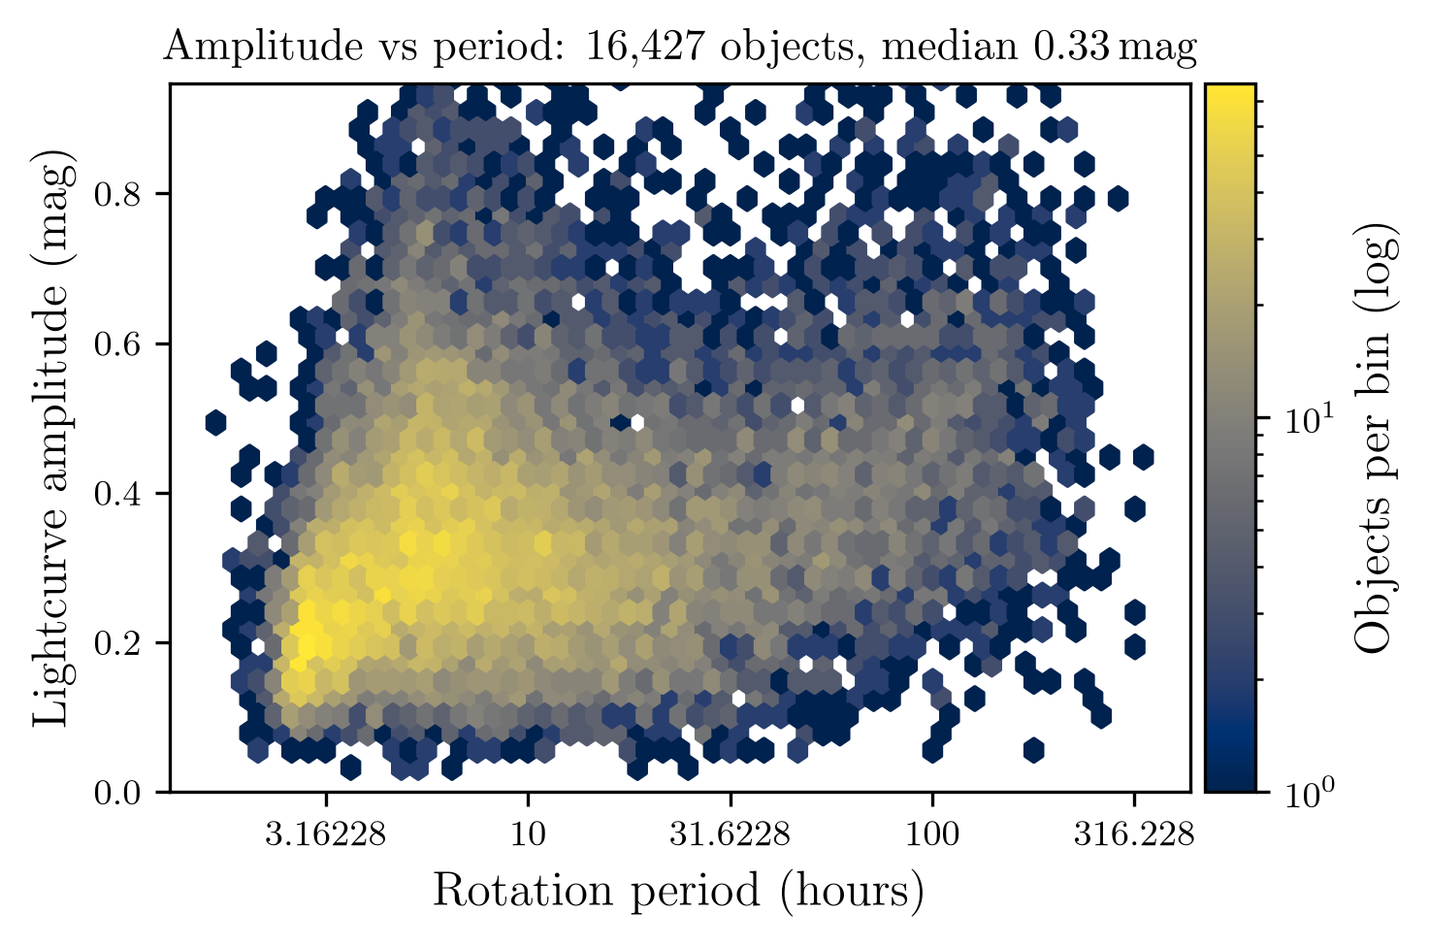
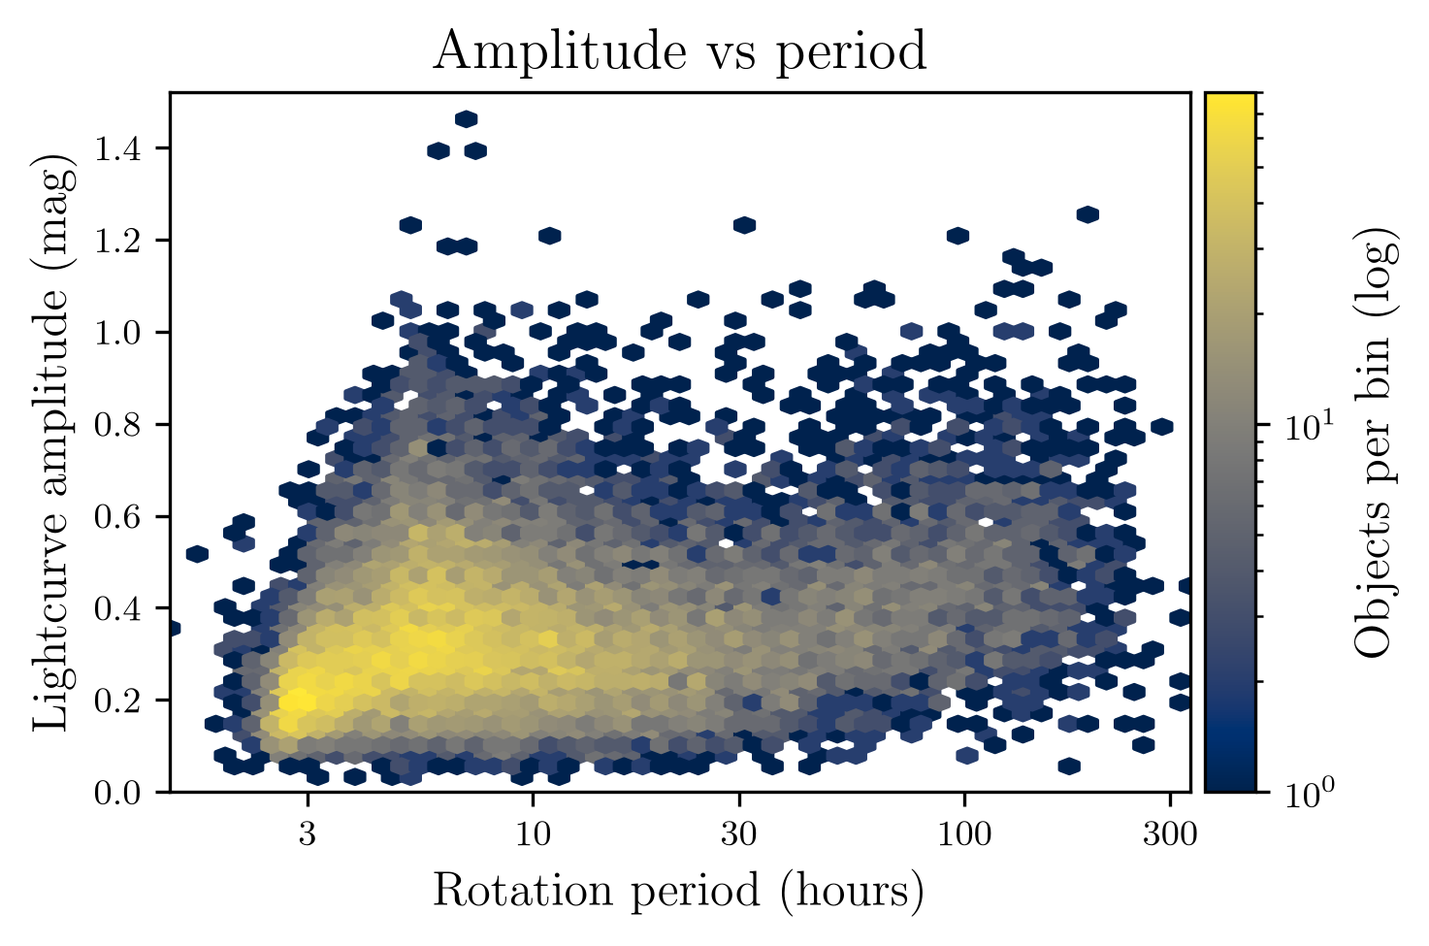
Editable landing copy, data and credit sections, figure fixes
Landing-page prose moves into shape/landing_text.py: plain strings, no f-string,
so braces need no escaping and a typo cannot break the build the way it could
when the copy sat inline with the CSS and JS. Numbers stay live through
{placeholders} filled from the catalogue at build time, so the text cannot go
stale. Verified the rendered page is byte-identical across the extraction. Bare
ampersands are escaped automatically, since hand-written copy naturally contains
them and they are invalid HTML.

Two new sections above the caveat. "Data and photometry" credits TESSELLATE
(Roxburgh et al. 2025, AJ 170, 186) and TESSreduce (Ridden-Harper et al. 2021,
ascl:2112.016). "Shape models and credit" credits convex inversion to Kaasalainen
& Torppa and Kaasalainen, Torppa & Muinonen (2001, Icarus 153, 24 and 37) and the
code and Minkowski reconstruction to DAMIT (Durech, Sidorin & Kaasalainen 2010,
A&A 513, A46), and separates what is ours from what is not.

Every citation was looked up rather than recalled, and each bibcode resolved
through the ADS link gateway to a live DOI. A plain request to ADS returns 405
for any bibcode, valid or not, so a direct fetch proves nothing.

Figures: titles trimmed at the colon and enlarged, the amplitude panel now shows
its full range instead of clipping the most elongated bodies at the 99.5th
percentile, and log axes carry round tick values rather than 3.16228.

diff --git a/index.html b/index.html
@@ -17,6 +17,10 @@
   h2{font-size:16px;margin:36px 0 10px}
   p.note{color:var(--text-dim);font-size:13px;line-height:1.6;margin:0 0 14px;max-width:72ch}
   .figs{display:grid;grid-template-columns:repeat(auto-fit,minmax(330px,1fr));gap:16px}
+  /* citation links inside body prose */
+  .note a{color:var(--accent);text-decoration:none;border-bottom:1px solid #a78bfa55}
+  .note a:hover{border-bottom-color:var(--accent)}
+  .note a:focus-visible{outline:2px solid var(--accent);outline-offset:2px}
   .figs figure{margin:0;background:var(--panel);border:1px solid var(--panel-border);
     border-radius:9px;padding:10px}
   .figs img{width:100%;height:auto;border-radius:5px;display:block;background:#fff}
@@ -88,26 +92,15 @@
 </style>
 <main>
   <p class="eyebrow">TESS sectors 27&ndash;55 &middot; TESSELLATE</p>
-  <h1>Asteroid rotation catalog</h1>
-  <p class="lede">Rotation periods, phase-folded lightcurves and convex shape models for
-     asteroids observed by TESS. Because TESS watches the same field continuously for about a
-     month, these lightcurves run unbroken for weeks &mdash; reaching slow rotators that a single
-     night cannot close, and pinning periods across hundreds of consecutive rotations.</p>
+  <h1>Asteroid rotation &amp; shape catalog</h1>
+  <p class="lede">Rotation periods, phase-folded lightcurves and convex shape models for asteroids observed by TESS. Since TESS observes the same field continuously at high cadence for at least a month, these lightcurves can run unbroken for weeks &mdash; allowing us to recover precise rotation periods for both fast and slow rotators that are a challenge to recover from the ground.</p>
 
-  <div class="kpi">
-    <div><div class="v">16,427</div><div class="l">rotation periods</div></div>
-    <div><div class="v">12,068</div><div class="l">with no previously published period</div></div>
-    <div><div class="v">3,255</div><div class="l">longer than 24 hours</div></div>
-    <div><div class="v">46 days</div><div class="l">median observing baseline</div></div>
-    <div><div class="v">1,384</div><div class="l">median measurements each</div></div>
-  </div>
+  <div class="kpi"><div><div class="v">16,427</div><div class="l">rotation periods</div></div><div><div class="v">12,068</div><div class="l">with no previously published period</div></div><div><div class="v">3,255</div><div class="l">longer than 24 hours</div></div><div><div class="v">46 days</div><div class="l">median observing baseline</div></div><div><div class="v">1,384</div><div class="l">median measurements each</div></div></div>
 
   <h2>Search the catalog</h2>
-  <p class="note">Type a name or number for a quick look, or open one at random. Every object
-     has a page: 14,768 carry a convex shape model, and 1,659 have a period
-     and folded lightcurve but no model, each stating why.</p>
+  <p class="note">Type a name or number for a quick look, or open one at random. Every object has a page: 14,768 carry a convex shape model, and 1,659 have a period and folded lightcurve but no model, each stating why.</p>
   <div class="searchrow">
-    <input id="q" type="search" placeholder="e.g. Eurydike, 3550, Link&hellip;" autocomplete="off">
+    <input id="q" type="search" placeholder="e.g. Eurydike, 3550, Lanzia&hellip;" autocomplete="off">
     <button id="rand" type="button" title="Open a random asteroid from the catalog">Random asteroid</button>
   </div>
   <div id="hits"></div>
@@ -120,39 +113,32 @@
     <th data-k="m" tabindex="0" role="button" title="+1 symmetric (two identical maxima), 0 equal odd and even power, -1 monomodal (one maximum per rotation)">Symmetry</th>
     <th data-k="l" tabindex="0" role="button">LCDB (hours)</th>
   </tr></thead><tbody id="rows"></tbody></table></div>
-  <p class="note" style="margin-top:12px"><a class="more" href="search.html">Browse the full
-     catalog &rarr;</a> &mdash; all 16,427 objects, with filters and sorting.</p>
+  <p class="note" style="margin-top:12px"><a class="more" href="search.html">Browse the full catalog &rarr;</a> &mdash; all 16,427 objects, with filters and sorting.</p>
 
   <h2>The population</h2>
   <div class="figs">
     <figure><img src="assets/period_hist.png" alt="Distribution of rotation periods">
-      <figcaption>Rotation periods. 3,255 objects turn more slowly than once a day,
-      the regime ground-based photometry struggles to close.</figcaption></figure>
+      <figcaption>Rotation periods: 3,255 objects turn more slowly than once a day, the regime ground-based photometry struggles to close.</figcaption></figure>
     <figure><img src="assets/spin_size.png" alt="Spin rate against diameter">
-      <figcaption>Spin rate against size. The 2.2 hour barrier is where a loosely bound rubble pile
-      would fly apart; almost nothing sits above it.</figcaption></figure>
+      <figcaption>Spin rate vs size: Only 21 objects sit above the 2.2 hour spin barrier is where a loosely bound rubble pile would fly apart.</figcaption></figure>
     <figure><img src="assets/amplitude_period.png" alt="Lightcurve amplitude against period">
-      <figcaption>Amplitude against period. Larger amplitude means a more elongated body, since
-      a rounder one varies less as it turns.</figcaption></figure>
+      <figcaption>Amplitude vs period: Larger amplitudes imply more extreme aspect ratios.</figcaption></figure>
     <figure style="grid-column:1/-1"><img src="assets/orbital_elements.png"
         alt="Semi-major axis against inclination and eccentricity">
-      <figcaption>Where these asteroids orbit. The dashed lines are Jupiter mean-motion
-      resonances, which clear the Kirkwood gaps; clumps are collisional families. The catalog
-      samples the inner, middle and outer belt about equally.</figcaption></figure>
+      <figcaption>Orbital parameters: The dashed lines are Jupiter mean-motion resonances, which clear the Kirkwood gaps; clumps are collisional families. The catalog samples the inner, middle and outer belt about equally.</figcaption></figure>
   </div>
 
-  <h2>What you can download</h2>
-  <p class="note">Each object page carries its phase-folded lightcurve with per-bin
-     uncertainties, the full stacked photometry behind it, and a rotatable convex shape model
-     &mdash; all downloadable, and the shape model is synchronised to the lightcurve so you can
-     watch which face produces which feature.</p>
+  <h2>Available data products</h2>
+  <p class="note">Each object page carries its phase-folded lightcurve with per-bin uncertainties, the full stacked photometry behind it, and a rotatable convex shape model &mdash; all downloadable, and the shape model is synchronised to the lightcurve so you can watch which face produces which feature.</p>
+
+  <h2>Data and photometry</h2>
+  <p class="note">Every lightcurve here is measured from TESS full-frame images by <strong>TESSELLATE</strong>, an untargeted search for variable and non-sidereal sources across the TESS archive (<a href="https://ui.adsabs.harvard.edu/abs/2025AJ....170..186R/abstract">Roxburgh et al. 2025, AJ 170, 186</a>; doi:10.3847/1538-3881/adf21b). TESSELLATE builds on the difference-imaging reduction in <strong>TESSreduce</strong> (<a href="https://ui.adsabs.harvard.edu/abs/2021ascl.soft12016R/abstract">Ridden-Harper et al. 2021, ascl:2112.016</a>; <a href="https://arxiv.org/abs/2111.15006">arXiv:2111.15006</a>). Because TESS revisits the same field continuously, the resulting photometry is unusually well suited to rotation periods: the sampling is uniform and the coverage runs for weeks rather than hours.</p>
+
+  <h2>Shape models and credit</h2>
+  <p class="note">Shape models are produced by convex lightcurve inversion using <strong>convexinv</strong>, the implementation distributed with DAMIT. The method was developed by Kaasalainen &amp; Torppa (<a href="https://ui.adsabs.harvard.edu/abs/2001Icar..153...24K/abstract">2001, Icarus 153, 24</a>; doi:10.1006/icar.2001.6673) and Kaasalainen, Torppa &amp; Muinonen (<a href="https://ui.adsabs.harvard.edu/abs/2001Icar..153...37K/abstract">2001, Icarus 153, 37</a>; doi:10.1006/icar.2001.6674). The code and the Minkowski reconstruction that turns the fitted facet areas into a closed polyhedron are distributed through <strong>DAMIT</strong>, the Database of Asteroid Models from Inversion Techniques (<a href="https://ui.adsabs.harvard.edu/abs/2010A&amp;A...513A..46D/abstract">Ďurech, Sidorin &amp; Kaasalainen 2010, A&amp;A 513, A46</a>; doi:10.1051/0004-6361/200912693). The rotation periods, the reliability classification and the shape fits presented here are ours; the inversion method and code are not.</p>
 
   <div class="caveat">
-    <strong>Reading a shape model.</strong> Most of these asteroids were seen during a single
-    apparition, from one direction. That constrains the shape but not its orientation in space,
-    so the spin axis is assumed rather than measured and every page says so. Convex inversion
-    also cannot represent concavities, so models systematically under-reach the deepest minima.
-    The rotation periods, by contrast, are well determined.
+    <strong>Reading a shape model.</strong> Most of these asteroids were seen during a single apparition, from one direction. That constrains the shape but not its orientation in space, so the spin axis is assumed rather than measured, as indicated on each page. Convex inversion also cannot represent concavities, so models with sharp or complex minima fail to generate a shape model with convex. The rotation periods, by contrast, are well determined, and often more precise than the Light Curve Data Base (LCDB).
   </div>
 </main>
 <script>

diff --git a/shape/build_landing.py b/shape/build_landing.py
@@ -134,6 +134,28 @@ S = dict(n=len(r), new=int(r.published_rot_per_hr.isna().sum()),
          shapes=int(r.key.isin(_shape_keys).sum()),
          noshape=int((~r.key.isin(_shape_keys)).sum()))
 
+import landing_text as TXT   # noqa: E402  (all page prose lives there)
+
+
+_BARE_AMP = re.compile(r'&(?!(?:[A-Za-z][A-Za-z0-9]{1,31}|#\d{1,7}|#[xX][0-9A-Fa-f]{1,6});)')
+
+
+def _t(v):
+    """Fill {placeholders} from the catalogue stats and collapse the source line wrapping.
+
+    Also escapes bare ampersands. The copy is hand-edited plain text, so "rotation & shape" is
+    natural to write but is invalid HTML and would be swallowed as an entity if a word followed
+    it. Entities that are already written out, like &mdash;, are left alone."""
+    return _BARE_AMP.sub('&amp;', ' '.join(str(v).format(**S).split()))
+
+
+T = {k: _t(v) for k, v in vars(TXT).items()
+     if k.isupper() and isinstance(v, str)}
+T['KPIS'] = ''.join(
+    f'<div><div class="v">{_t(val)}</div><div class="l">{_t(lab)}</div></div>'
+    for val, lab in TXT.KPIS)
+T['CAPTIONS'] = {k: _t(v) for k, v in TXT.CAPTIONS.items()}
+
 html = f'''<!doctype html><meta charset="utf-8">
 <title>TESSELLATE asteroid rotation catalog</title>
 <meta name="viewport" content="width=device-width,initial-scale=1">
@@ -153,6 +175,10 @@ html = f'''<!doctype html><meta charset="utf-8">
   h2{{font-size:16px;margin:36px 0 10px}}
   p.note{{color:var(--text-dim);font-size:13px;line-height:1.6;margin:0 0 14px;max-width:72ch}}
   .figs{{display:grid;grid-template-columns:repeat(auto-fit,minmax(330px,1fr));gap:16px}}
+  /* citation links inside body prose */
+  .note a{{color:var(--accent);text-decoration:none;border-bottom:1px solid #a78bfa55}}
+  .note a:hover{{border-bottom-color:var(--accent)}}
+  .note a:focus-visible{{outline:2px solid var(--accent);outline-offset:2px}}
   .figs figure{{margin:0;background:var(--panel);border:1px solid var(--panel-border);
     border-radius:9px;padding:10px}}
   .figs img{{width:100%;height:auto;border-radius:5px;display:block;background:#fff}}
@@ -223,28 +249,17 @@ html = f'''<!doctype html><meta charset="utf-8">
     border:1px solid #e0a45840;font-size:12.5px;line-height:1.6;color:#e8c99a;max-width:72ch}}
 </style>
 <main>
-  <p class="eyebrow">TESS sectors 27&ndash;55 &middot; TESSELLATE</p>
-  <h1>Asteroid rotation catalog</h1>
-  <p class="lede">Rotation periods, phase-folded lightcurves and convex shape models for
-     asteroids observed by TESS. Because TESS watches the same field continuously for about a
-     month, these lightcurves run unbroken for weeks &mdash; reaching slow rotators that a single
-     night cannot close, and pinning periods across hundreds of consecutive rotations.</p>
+  <p class="eyebrow">{T['EYEBROW']}</p>
+  <h1>{T['TITLE']}</h1>
+  <p class="lede">{T['LEDE']}</p>
 
-  <div class="kpi">
-    <div><div class="v">{S['n']:,}</div><div class="l">rotation periods</div></div>
-    <div><div class="v">{S['new']:,}</div><div class="l">with no previously published period</div></div>
-    <div><div class="v">{S['long']:,}</div><div class="l">longer than 24 hours</div></div>
-    <div><div class="v">{S['base']:.0f} days</div><div class="l">median observing baseline</div></div>
-    <div><div class="v">{S['pts']:,}</div><div class="l">median measurements each</div></div>
-  </div>
+  <div class="kpi">{T['KPIS']}</div>
 
-  <h2>Search the catalog</h2>
-  <p class="note">Type a name or number for a quick look, or open one at random. Every object
-     has a page: {S['shapes']:,} carry a convex shape model, and {S['noshape']:,} have a period
-     and folded lightcurve but no model, each stating why.</p>
+  <h2>{T['SEARCH_HEADING']}</h2>
+  <p class="note">{T['SEARCH_NOTE']}</p>
   <div class="searchrow">
-    <input id="q" type="search" placeholder="e.g. Eurydike, 3550, Link&hellip;" autocomplete="off">
-    <button id="rand" type="button" title="Open a random asteroid from the catalog">Random asteroid</button>
+    <input id="q" type="search" placeholder="{T['SEARCH_PLACEHOLDER']}" autocomplete="off">
+    <button id="rand" type="button" title="Open a random asteroid from the catalog">{T['RANDOM_BUTTON']}</button>
   </div>
   <div id="hits"></div>
   <div class="tablewrap"><table><thead><tr>
@@ -256,39 +271,32 @@ html = f'''<!doctype html><meta charset="utf-8">
     <th data-k="m" tabindex="0" role="button" title="+1 symmetric (two identical maxima), 0 equal odd and even power, -1 monomodal (one maximum per rotation)">Symmetry</th>
     <th data-k="l" tabindex="0" role="button">LCDB (hours)</th>
   </tr></thead><tbody id="rows"></tbody></table></div>
-  <p class="note" style="margin-top:12px"><a class="more" href="search.html">Browse the full
-     catalog &rarr;</a> &mdash; all {S['n']:,} objects, with filters and sorting.</p>
+  <p class="note" style="margin-top:12px"><a class="more" href="search.html">{T['BROWSE_LINK']}</a> &mdash; {T['BROWSE_NOTE']}</p>
 
-  <h2>The population</h2>
+  <h2>{T['POPULATION_HEADING']}</h2>
   <div class="figs">
     <figure><img src="assets/period_hist.png" alt="Distribution of rotation periods">
-      <figcaption>Rotation periods. {S['long']:,} objects turn more slowly than once a day,
-      the regime ground-based photometry struggles to close.</figcaption></figure>
+      <figcaption>{T['CAPTIONS']['period_hist.png']}</figcaption></figure>
     <figure><img src="assets/spin_size.png" alt="Spin rate against diameter">
-      <figcaption>Spin rate against size. The 2.2 hour barrier is where a loosely bound rubble pile
-      would fly apart; almost nothing sits above it.</figcaption></figure>
+      <figcaption>{T['CAPTIONS']['spin_size.png']}</figcaption></figure>
     <figure><img src="assets/amplitude_period.png" alt="Lightcurve amplitude against period">
-      <figcaption>Amplitude against period. Larger amplitude means a more elongated body, since
-      a rounder one varies less as it turns.</figcaption></figure>
+      <figcaption>{T['CAPTIONS']['amplitude_period.png']}</figcaption></figure>
     <figure style="grid-column:1/-1"><img src="assets/orbital_elements.png"
         alt="Semi-major axis against inclination and eccentricity">
-      <figcaption>Where these asteroids orbit. The dashed lines are Jupiter mean-motion
-      resonances, which clear the Kirkwood gaps; clumps are collisional families. The catalog
-      samples the inner, middle and outer belt about equally.</figcaption></figure>
+      <figcaption>{T['CAPTIONS']['orbital_elements.png']}</figcaption></figure>
   </div>
 
-  <h2>What you can download</h2>
-  <p class="note">Each object page carries its phase-folded lightcurve with per-bin
-     uncertainties, the full stacked photometry behind it, and a rotatable convex shape model
-     &mdash; all downloadable, and the shape model is synchronised to the lightcurve so you can
-     watch which face produces which feature.</p>
+  <h2>{T['DOWNLOAD_HEADING']}</h2>
+  <p class="note">{T['DOWNLOAD_NOTE']}</p>
+
+  <h2>{T['DATA_HEADING']}</h2>
+  <p class="note">{T['DATA']}</p>
+
+  <h2>{T['CREDIT_HEADING']}</h2>
+  <p class="note">{T['CREDIT']}</p>
 
   <div class="caveat">
-    <strong>Reading a shape model.</strong> Most of these asteroids were seen during a single
-    apparition, from one direction. That constrains the shape but not its orientation in space,
-    so the spin axis is assumed rather than measured and every page says so. Convex inversion
-    also cannot represent concavities, so models systematically under-reach the deepest minima.
-    The rotation periods, by contrast, are well determined.
+    <strong>{T['CAVEAT_TITLE']}</strong> {T['CAVEAT']}
   </div>
 </main>
 <script>

diff --git a/shape/landing_text.py b/shape/landing_text.py
@@ -1,0 +1,116 @@
+"""All prose shown on the landing page. Edit this file, then run shape/build_landing.py.
+
+This is plain text, NOT an f-string, so braces need no escaping and a typo cannot break the
+build the way it could when the copy was embedded alongside the CSS and JS.
+
+Numbers come from the catalogue at build time via {placeholders}, so they can never go stale:
+
+    {n}        objects with a reliable period            {shapes}   with a convex shape model
+    {new}      with no previously published period       {noshape}  with a lightcurve but no model
+    {long}     with a period longer than 24 hours        {pages}    with a page (all of them)
+    {base}     median observing baseline, in days        {med}      median period, hours
+    {pts}      median measurements per object            {rots}     median rotations observed
+    {lcdb}     with a published LCDB period
+
+Write them as {n} or {base:.0f}; the usual Python format specs work. HTML entities such as
+&mdash; and &rarr; are fine, and inline tags like <strong> or <em> are allowed.
+"""
+
+# The small uppercase line above the title.
+EYEBROW = 'TESS sectors 27&ndash;55 &middot; TESSELLATE'
+
+# The page title, and the browser tab title.
+TITLE = 'Asteroid rotation & shape catalog'
+TAB_TITLE = 'TESSELLATE asteroid catalog'
+
+# The opening paragraph, directly under the title.
+LEDE = """Rotation periods, phase-folded lightcurves and convex shape models for asteroids
+observed by TESS. Since TESS observes the same field continuously at high cadence for at least a month, these
+lightcurves can run unbroken for weeks &mdash; allowing us to recover precise rotation periods for both fast 
+and slow rotators that are a challenge to recover from the ground."""
+
+# The five headline numbers. Each entry is (value, label); the value may use {placeholders}.
+KPIS = [
+    ('{n:,}',          'rotation periods'),
+    ('{new:,}',        'with no previously published period'),
+    ('{long:,}',       'longer than 24 hours'),
+    ('{base:.0f} days', 'median observing baseline'),
+    ('{pts:,}',        'median measurements each'),
+]
+
+SEARCH_HEADING = 'Search the catalog'
+SEARCH_NOTE = """Type a name or number for a quick look, or open one at random. Every object has
+a page: {shapes:,} carry a convex shape model, and {noshape:,} have a period and folded
+lightcurve but no model, each stating why."""
+SEARCH_PLACEHOLDER = 'e.g. Eurydike, 3550, Lanzia&hellip;'
+RANDOM_BUTTON = 'Random asteroid'
+BROWSE_LINK = 'Browse the full catalog &rarr;'
+BROWSE_NOTE = 'all {n:,} objects, with filters and sorting.'
+
+POPULATION_HEADING = 'The population'
+
+# Figure captions, keyed by the image file they belong to.
+CAPTIONS = {
+    'period_hist.png': """Rotation periods: {long:,} objects turn more slowly than once a day,
+        the regime ground-based photometry struggles to close.""",
+    'spin_size.png': """Spin rate vs size: Only 21 objects sit above the 2.2 hour spin barrier is where a loosely bound
+        rubble pile would fly apart.""",
+    'amplitude_period.png': """Amplitude vs period: Larger amplitudes imply more extreme aspect ratios.""",
+    'orbital_elements.png': """Orbital parameters: The dashed lines are Jupiter
+        mean-motion resonances, which clear the Kirkwood gaps; clumps are collisional families.
+        The catalog samples the inner, middle and outer belt about equally.""",
+}
+
+DOWNLOAD_HEADING = 'Available data products'
+DOWNLOAD_NOTE = """Each object page carries its phase-folded lightcurve with per-bin
+uncertainties, the full stacked photometry behind it, and a rotatable convex shape model
+&mdash; all downloadable, and the shape model is synchronised to the lightcurve so you can watch
+which face produces which feature."""
+
+# Where the photometry comes from, shown above the credit section.
+# Citations verified against ADS; each bibcode was resolved through the ADS link
+# gateway to a live DOI, so the references are confirmed rather than recalled.
+DATA_HEADING = 'Data and photometry'
+DATA = """Every lightcurve here is measured from TESS full-frame images by
+<strong>TESSELLATE</strong>, an untargeted search for variable and non-sidereal sources across
+the TESS archive
+(<a href="https://ui.adsabs.harvard.edu/abs/2025AJ....170..186R/abstract">Roxburgh et al. 2025,
+AJ 170, 186</a>; doi:10.3847/1538-3881/adf21b). TESSELLATE builds on the difference-imaging reduction in
+<strong>TESSreduce</strong>
+(<a href="https://ui.adsabs.harvard.edu/abs/2021ascl.soft12016R/abstract">Ridden-Harper et al.
+2021, ascl:2112.016</a>; <a href="https://arxiv.org/abs/2111.15006">arXiv:2111.15006</a>).
+Because TESS revisits the same field continuously, the resulting photometry is unusually well
+suited to rotation periods: the sampling is uniform and the coverage runs for weeks rather than
+hours."""
+
+# Credit for the inversion method and code, shown just above the caveat box.
+# Citations verified against ADS; each bibcode was resolved through the ADS link
+# gateway to a live DOI, so the references are confirmed rather than recalled.
+CREDIT_HEADING = 'Shape models and credit'
+CREDIT = """Shape models are produced by convex lightcurve inversion using
+<strong>convexinv</strong>, the implementation distributed with DAMIT. The method was developed
+by Kaasalainen &amp; Torppa
+(<a href="https://ui.adsabs.harvard.edu/abs/2001Icar..153...24K/abstract">2001, Icarus 153,
+24</a>; doi:10.1006/icar.2001.6673) and Kaasalainen, Torppa &amp; Muinonen
+(<a href="https://ui.adsabs.harvard.edu/abs/2001Icar..153...37K/abstract">2001, Icarus 153,
+37</a>; doi:10.1006/icar.2001.6674). The code and the Minkowski reconstruction that turns the fitted facet areas into a
+closed polyhedron are distributed through <strong>DAMIT</strong>, the Database of Asteroid
+Models from Inversion Techniques
+(<a href="https://ui.adsabs.harvard.edu/abs/2010A&A...513A..46D/abstract">Ďurech, Sidorin
+&amp; Kaasalainen 2010, A&amp;A 513, A46</a>; doi:10.1051/0004-6361/200912693). The rotation periods, the reliability
+classification and the shape fits presented here are ours; the inversion method and code are
+not."""
+
+# The amber box at the foot of the page.
+CAVEAT_TITLE = 'Reading a shape model.'
+CAVEAT = """Most of these asteroids were seen during a single apparition, from one direction.
+That constrains the shape but not its orientation in space, so the spin axis is assumed rather
+than measured, as indicated on each page. Convex inversion also cannot represent concavities, so
+models with sharp or complex minima fail to generate a shape model with convex. The rotation periods, by contrast, are
+well determined, and often more precise than the Light Curve Data Base (LCDB)."""
+
+# ---- the browse page ----
+BROWSE_TAB_TITLE = 'Browse the TESSELLATE asteroid catalog'
+BROWSE_TITLE = 'Browse the catalog'
+BROWSE_HOME_LINK = '&larr; Catalog home'
+BROWSE_SEARCH_PLACEHOLDER = 'Search {n:,} objects by name or number&hellip;'
